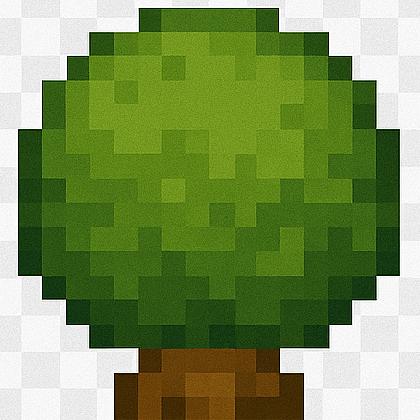
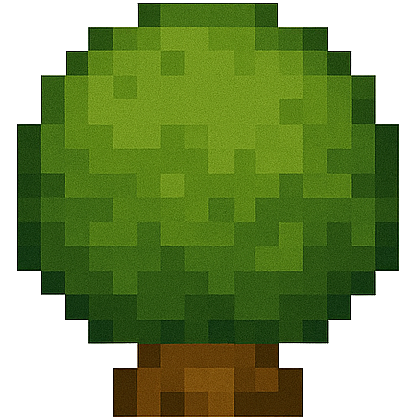
feat: add tree tile type and town sign subtype with updated map layout

diff --git a/lib/story/rooms/chapter1/the_wilds_entrance.ts b/lib/story/rooms/chapter1/the_wilds_entrance.ts
@@ -6,26 +6,118 @@ import type { StoryRoom } from "../types";
 const SIZE = 25;
 
 /**
+ * Visual map layout using readable symbols.
+ * Legend:
+ * - '.' = floor (0)
+ * - '#' = wall (1)
+ * - 'T' = tree (6)
+ * - 'G' = goblin enemy
+ * - 'S' = snake enemy
+ * - '@' = town sign (subtype)
+ */
+const VISUAL_MAP = [
+  "##TTTTTTTTTTTTTTTTTTTTTTT",
+  "##T.TTTTT.T.###.........TT",
+  "##..TTTT..T.#.#.........TT",
+  "##.......T..............#",
+  "##......TT....#.......###",
+  "##TT....T...###.......##T",
+  "##.........####.###....T",
+  "##......TTT....#.#.....T",
+  "##......TTT..TTT.#.....T",
+  "##...#..T.....TT..#....T",
+  "##.G.G#.T.......#...#..T",
+  "##....#.T...........#..T",
+  "##..G...T.....######.##.",
+  "##....#.......#..#...T",
+  "##....#.....#####....T",
+  "##..##.......#.##..T#T",
+  "##.....T.####.....TT#T",
+  "##..#.####.T....######T",
+  "##.........#...........#T",
+  ".@..........#..........T",
+  "...TT.TT...T.TT###....#T",
+  "..........#.......#.#..T",
+  ".....T..#...TT..T.T..TTT",
+  ".....T.T..T.TTT.TT.TT..T",
+  "##TTTTTTTTTTTTT.TTTTTTTT",
+];
+
+/**
+ * Parse the visual map into tiles, subtypes, and enemies
+ */
+function parseVisualMap(visualMap: string[]): {
+  tiles: number[][];
+  subtypes: TileSubtype[][][];
+  enemies: Array<{ y: number; x: number; kind: string }>;
+} {
+  const tiles: number[][] = [];
+  const subtypes: TileSubtype[][][] = [];
+  const enemies: Array<{ y: number; x: number; kind: string }> = [];
+
+  for (let y = 0; y < visualMap.length; y++) {
+    const row = visualMap[y];
+    const tileRow: number[] = [];
+    const subtypeRow: TileSubtype[][] = [];
+
+    // Ensure we process exactly SIZE columns (pad with floor if needed)
+    for (let x = 0; x < SIZE; x++) {
+      const char = x < row.length ? row[x] : '.'; // Default to floor if row is short
+      let tileType = 0; // default to floor
+      const cellSubtypes: TileSubtype[] = [];
+
+      switch (char) {
+        case '.':
+          tileType = 0; // floor
+          break;
+        case '#':
+          tileType = 1; // wall
+          break;
+        case 'T':
+          tileType = 6; // tree
+          break;
+        case 'G':
+          tileType = 0; // floor with goblin
+          enemies.push({ y, x, kind: 'goblin' });
+          break;
+        case 'S':
+          tileType = 0; // floor with snake
+          enemies.push({ y, x, kind: 'snake' });
+          break;
+        case '@':
+          tileType = 0; // floor with town sign
+          cellSubtypes.push(TileSubtype.TOWN_SIGN);
+          break;
+        default:
+          tileType = 0; // default to floor for unknown chars
+      }
+
+      tileRow.push(tileType);
+      subtypeRow.push(cellSubtypes);
+    }
+
+    tiles.push(tileRow);
+    subtypes.push(subtypeRow);
+  }
+
+  return { tiles, subtypes, enemies };
+}
+
+const PARSED_MAP = parseVisualMap(VISUAL_MAP);
+
+/**
  * FIXED_ROOM_DATA: Set this to freeze a specific map + enemy layout permanently.
  * 
- * How to freeze a map you like:
- * 1. Enter The Wilds and play through the map
- * 2. If you like it, check DevTools Console - it auto-logs the room data
- * 3. Look for: "[The Wilds] Room data ready to freeze (copy command above)"
- * 4. Run the copy() command shown in the console
- * 5. Paste the result here as: const FIXED_ROOM_DATA = <paste>;
- * 6. Save this file and reload
- * 
- * The frozen room will have the same map layout AND enemy positions every time!
- * Set back to null to generate random maps again.
+ * This map has been customized with tree borders (tile type 6).
+ * Trees act as non-walkable obstacles with grass floor backgrounds.
  */
-const FIXED_ROOM_DATA: { mapData: MapData; enemies: Array<{ y: number; x: number; kind: string }> } | null = null;
-
-// Example after pasting:
-// const FIXED_ROOM_DATA = {
-//   mapData: { tiles: [[...]], subtypes: [[...]] },
-//   enemies: [{ y: 5, x: 10, kind: "goblin" }, ...]
-// };
+const FIXED_ROOM_DATA: { mapData: MapData; enemies: Array<{ y: number; x: number; kind: string }> } | null = {
+  mapData: {
+    tiles: PARSED_MAP.tiles,
+    subtypes: PARSED_MAP.subtypes
+  },
+  enemies: PARSED_MAP.enemies
+};
 
 /**
  * Generate The Wilds map using the same generation as daily mode.
@@ -186,7 +278,7 @@ export function buildTheWildsEntrance(): StoryRoom {
   let bottomMost: [number, number] | null = null;
   for (let y = 0; y < SIZE; y++) {
     for (let x = 0; x < SIZE; x++) {
-      if (mapData.subtypes[y][x].includes(TileSubtype.ROOM_TRANSITION)) {
+      if (mapData.subtypes[y]?.[x]?.includes(TileSubtype.ROOM_TRANSITION)) {
         if (!bottomMost || y > bottomMost[0]) {
           bottomMost = [y, x];
         }

diff --git a/components/Tile.tsx b/components/Tile.tsx
@@ -354,6 +354,10 @@ export const Tile: React.FC<TileProps> = ({
     return subtypes?.includes(TileSubtype.ROAD) || false;
   };
 
+  const hasTownSign = (subtypes: number[] | undefined): boolean => {
+    return subtypes?.includes(TileSubtype.TOWN_SIGN) || false;
+  };
+
   const getRoadShape = (
     subtypes: number[] | undefined
   ): TileSubtype | null => {
@@ -669,6 +673,18 @@ export const Tile: React.FC<TileProps> = ({
               }}
             />
           </>
+        )}
+
+        {/* Render town sign */}
+        {hasTownSign(subtypes) && (
+          <div
+            key="town-sign"
+            data-testid={`subtype-icon-${TileSubtype.TOWN_SIGN}`}
+            className={`${styles.assetIcon} ${styles.rockIcon}`}
+            style={{
+              backgroundImage: `url('/images/items/town-sign.png')`,
+            }}
+          />
         )}
 
         {/* Render faulty floor cracks overlay */}
@@ -1477,6 +1493,74 @@ export const Tile: React.FC<TileProps> = ({
       );
     } else {
       // Invisible flowers - same style as invisible floor
+      return (
+        <div
+          className={`${styles.tileContainer} ${styles.invisible} ${invisibleClassName ?? ''}`}
+          data-testid={`tile-${tileId}`}
+        />
+      );
+    }
+  }
+
+  // If this is a tree tile
+  if (tileId === 6) {
+    if (isVisible) {
+      const floorClasses = `${styles.tileContainer} ${styles.floor} ${tierClass}`;
+      const floorAsset =
+        process.env.NODE_ENV === 'test'
+          ? environmentConfig.floorDefault
+          : getFloorAsset(environment, { hasNorthNeighbor: Boolean(topNeighbor) });
+
+      // Deterministically pick a tree asset based on tile coordinates
+      const y = typeof row === 'number' ? row : 0;
+      const x = typeof col === 'number' ? col : 0;
+      const seed = (y * 37 + x * 101);
+      const treeAssets = [
+        '/images/trees/tree-1.png',
+        '/images/trees/tree-2.png',
+        '/images/trees/tree-3.png',
+        '/images/trees/tree-4.png',
+      ];
+      const treeAsset = treeAssets[Math.abs(seed) % treeAssets.length];
+
+      return (
+        <div
+          className={floorClasses}
+          style={{
+            backgroundImage: `url(${floorAsset})`,
+            backgroundSize: "cover",
+            backgroundPosition: "center",
+            backgroundRepeat: "no-repeat",
+            position: "relative",
+            backgroundColor: process.env.NODE_ENV === 'test' ? '#c8c8c8' : 'transparent'
+          }}
+          data-testid={`tile-${tileId}`}
+          data-neighbor-code={neighborCode}
+        >
+          {/* Render tree sprite on top of floor */}
+          <img
+            src={treeAsset}
+            alt=""
+            style={{
+              position: 'absolute',
+              inset: 0,
+              width: '100%',
+              height: '100%',
+              objectFit: 'cover',
+              objectPosition: 'center',
+              imageRendering: 'pixelated',
+              pointerEvents: 'none',
+              zIndex: 1,
+            }}
+            aria-hidden="true"
+          />
+
+          {/* Render all subtypes as standardized icons */}
+          {renderSubtypeIcons(subtype)}
+        </div>
+      );
+    } else {
+      // Invisible tree - same style as invisible floor
       return (
         <div
           className={`${styles.tileContainer} ${styles.invisible} ${invisibleClassName ?? ''}`}

diff --git a/lib/map/constants.ts b/lib/map/constants.ts
@@ -16,6 +16,7 @@ export const tileTypes: Record<number, TileType> = {
   3: { id: 3, name: "key", color: "#ff0", walkable: true },
   4: { id: 4, name: "roof", color: "#8b4513", walkable: false },
   5: { id: 5, name: "flowers", color: "#90EE90", walkable: true },
+  6: { id: 6, name: "tree", color: "#228B22", walkable: false },
 };
 
 // Define tile types as constants for clarity
@@ -23,6 +24,7 @@ export const FLOOR = 0;
 export const WALL = 1;
 export const ROOF = 4;
 export const FLOWERS = 5;
+export const TREE = 6;
 
 export const DEFAULT_ROOM_ID = "__base__";
 export type RoomId = string;
@@ -75,6 +77,7 @@ export enum TileSubtype {
   SIGN_LIBRARY = 34,
   SIGN_SMITHY = 35,
   BOOKSHELF = 36,
+  TOWN_SIGN = 37,
 }
 
 /**

diff --git a/lib/map.ts b/lib/map.ts
@@ -5,6 +5,7 @@ export {
   WALL,
   ROOF,
   FLOWERS,
+  TREE,
   DEFAULT_ROOM_ID,
   type RoomId,
   dx,
